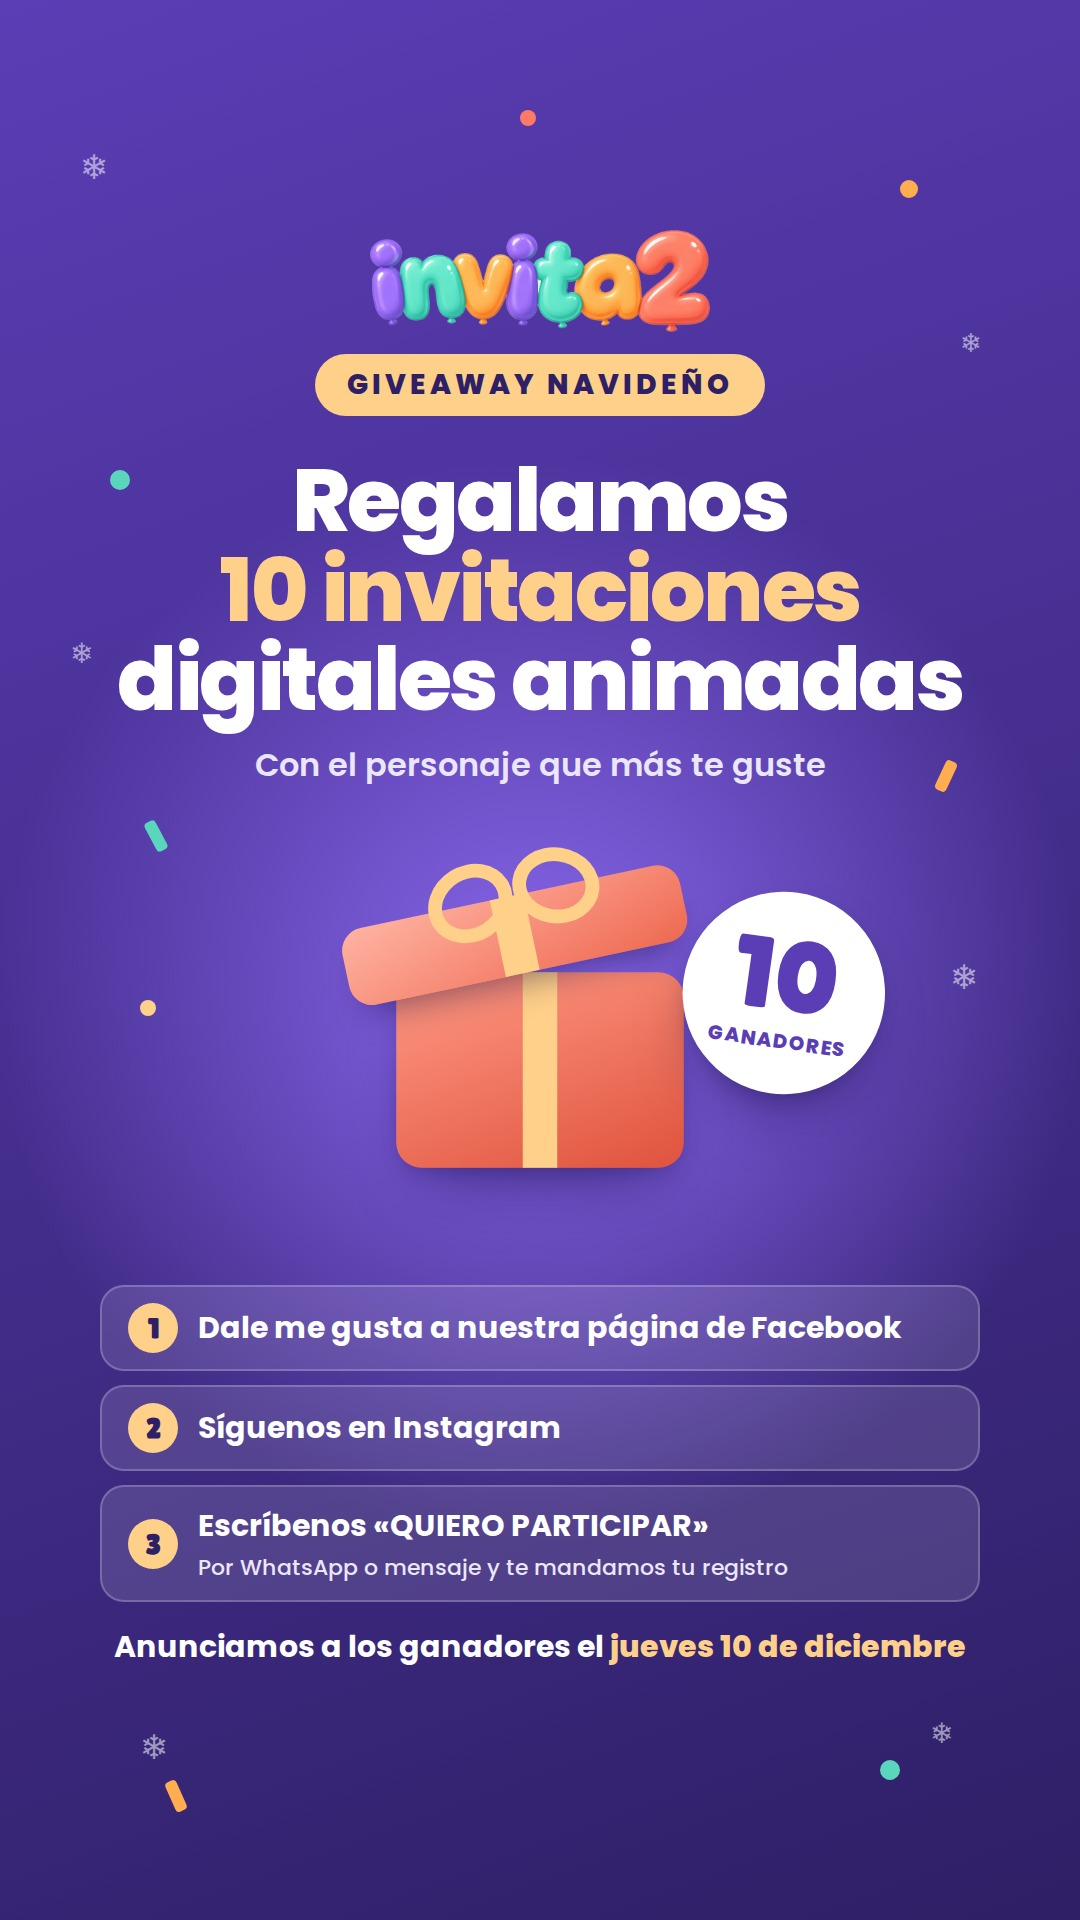
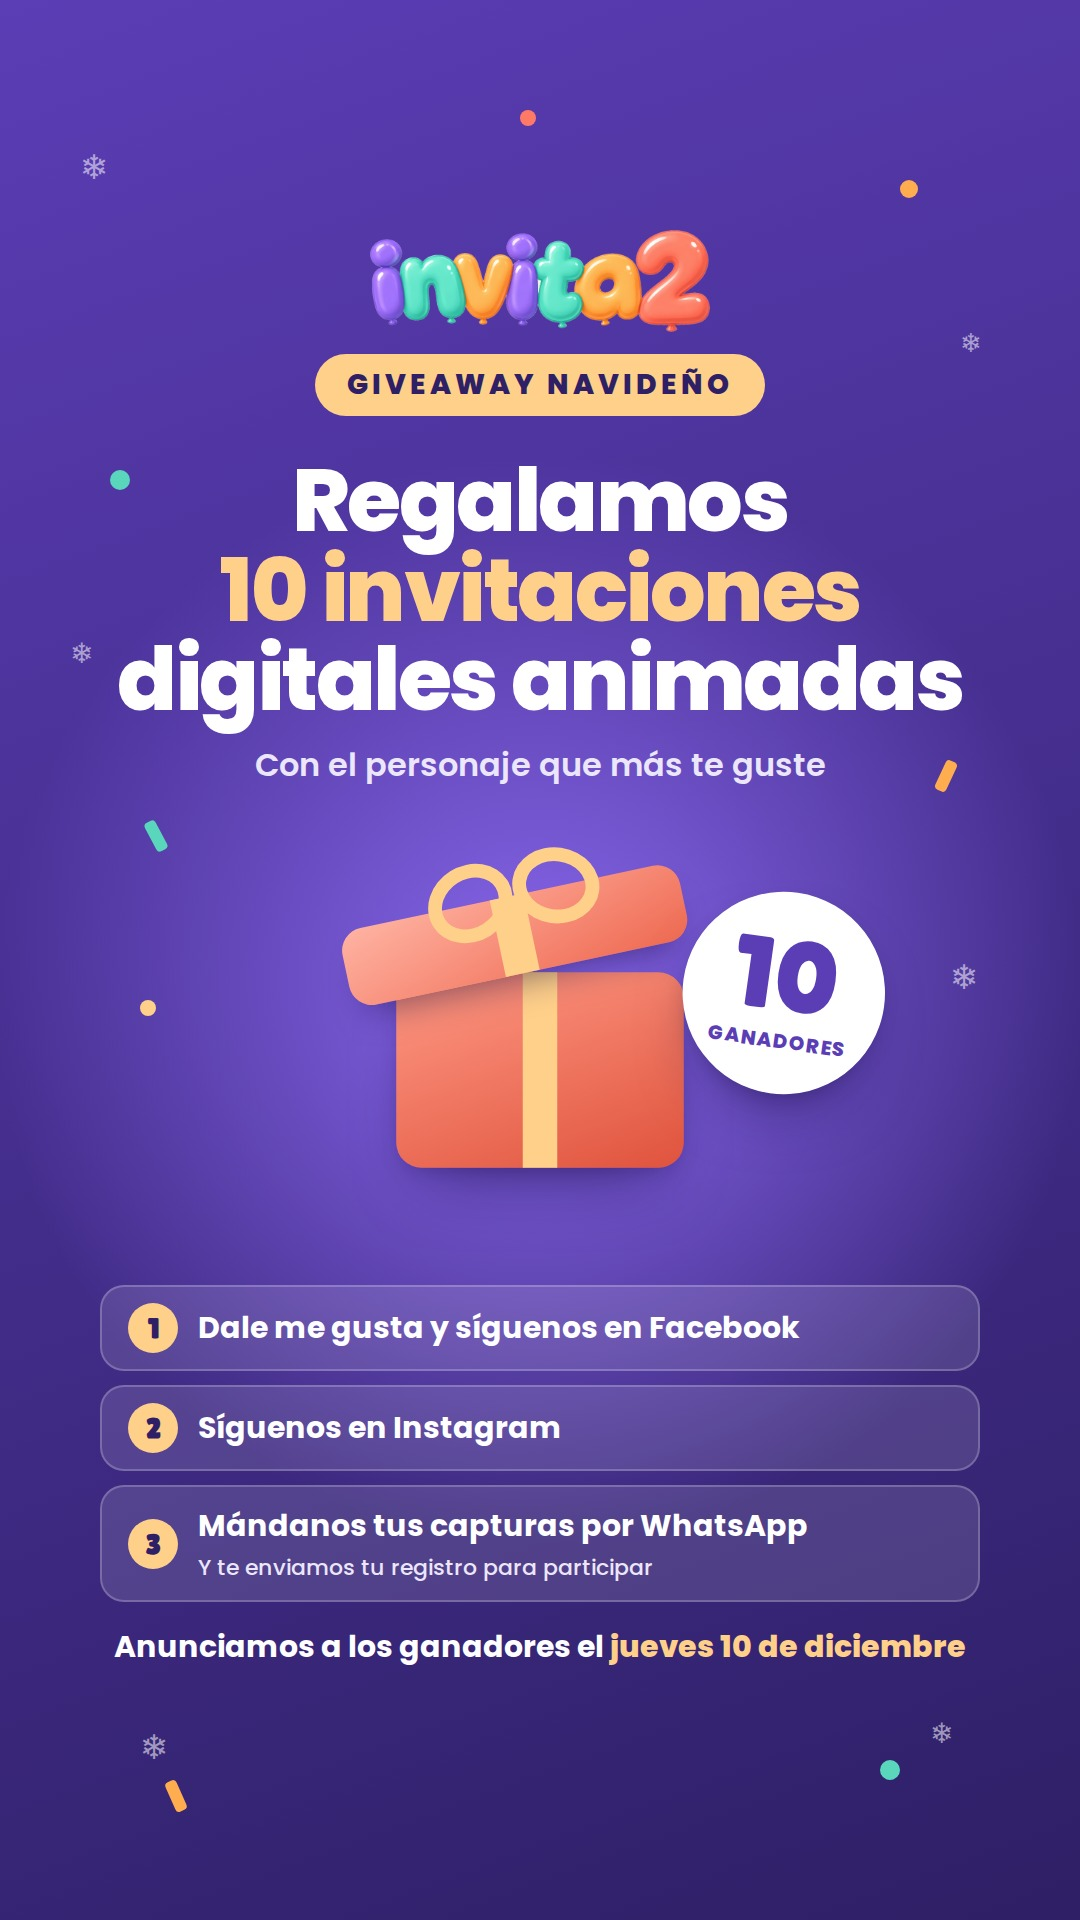
Giveaway: requisitos con capturas por WhatsApp
Los requisitos ahora son dar me gusta y seguir la página de Facebook, seguir
el Instagram y mandar las capturas por WhatsApp; con eso se les manda el
registro. Se actualizan las imágenes, el mensaje de WhatsApp y la lista de
requisitos del formulario.

Claude-Session: https://claude.ai/code/session_01LkzYQiHFfeBEkcAuxU96eY

Changed region(s): [[0.1833, 0.7812, 0.7639, 0.8438], [0.3972, 0.6875, 0.825, 0.7188]]

diff --git a/marketing/redes/giveaway-navidad.html b/marketing/redes/giveaway-navidad.html
@@ -40,7 +40,7 @@ h1 em{font-style:normal;color:var(--gold)}
   <span class="snow" style="left:80px;top:150px">❄</span>
   <span class="snow" style="left:960px;top:330px;font-size:26px">❄</span>
   <span class="snow" style="left:70px;top:640px;font-size:28px">❄</span>
-  <span class="snow" style="left:950px;top:880px">❄</span>
+  <span class="snow" style="left:960px;top:820px">❄</span>
   <span class="dot" style="left:150px;top:470px;width:20px;height:20px;background:var(--mint)"></span>
   <span class="dot" style="left:900px;top:180px;width:18px;height:18px;background:var(--orange)"></span>
   <span class="strip" style="left:190px;top:780px;background:var(--mint);transform:rotate(-28deg)"></span>
@@ -60,9 +60,9 @@ h1 em{font-style:normal;color:var(--gold)}
     </div>
 
     <div class="steps">
-      <div><i>1</i><span>Dale me gusta a nuestra página de Facebook</span></div>
+      <div><i>1</i><span>Dale me gusta y síguenos en Facebook</span></div>
       <div><i>2</i><span>Síguenos en Instagram</span></div>
-      <div><i>3</i><span>Escríbenos «QUIERO PARTICIPAR»<small>Por WhatsApp o mensaje y te mandamos tu registro</small></span></div>
+      <div><i>3</i><span>Mándanos tus capturas por WhatsApp<small>Y te enviamos tu registro para participar</small></span></div>
     </div>
     <p class="date">Anunciamos a los ganadores el <b>jueves 10 de diciembre</b></p>
   </div>

diff --git a/src/lib/giveaways.ts b/src/lib/giveaways.ts
@@ -25,18 +25,16 @@ export function announceLabel(date: string) {
 }
 
 /**
- * Respuesta por WhatsApp a quien pidió información o quiere participar.
- * {enlace}, {fecha} y {ganadores} se reemplazan al copiar.
+ * Respuesta por WhatsApp a quien ya mandó sus capturas (me gusta y sigue la
+ * página de Facebook, sigue el Instagram). {enlace}, {fecha} y {ganadores} se
+ * reemplazan al copiar.
  */
-export const DEFAULT_GIVEAWAY_MESSAGE = `¡Hola! 👋 Gracias por tu interés en nuestro giveaway 🎁
+export const DEFAULT_GIVEAWAY_MESSAGE = `¡Gracias por participar en nuestro giveaway! 🎁
 
-Estamos regalando {ganadores} invitaciones digitales animadas para tu fiesta. Para participar:
+Ya recibimos tus capturas ✅ Ahora solo falta tu registro con los datos de tu evento y el personaje que te gustaría:
+👉 {enlace}
 
-✅ Dale me gusta a nuestra página de Facebook
-✅ Síguenos en Instagram
-✅ Regístrate aquí: {enlace}
-
-Anunciamos a los ganadores {fecha} en nuestras redes y les escribimos por aquí. ¡Mucha suerte! 🍀`;
+Estamos regalando {ganadores} invitaciones digitales animadas y anunciamos a los ganadores {fecha} en nuestras redes. ¡Mucha suerte! 🍀`;
 
 export function giveawayMessage(template: string, link: string, announceOn: string, winners: number) {
   return (template || DEFAULT_GIVEAWAY_MESSAGE)

diff --git a/marketing/redes/giveaway-navidad-historia.html b/marketing/redes/giveaway-navidad-historia.html
@@ -65,9 +65,9 @@ h1 em{font-style:normal;color:var(--gold)}
     </div>
 
     <div class="steps">
-      <div><i>1</i><span>Dale me gusta a nuestra página de Facebook</span></div>
+      <div><i>1</i><span>Dale me gusta y síguenos en Facebook</span></div>
       <div><i>2</i><span>Síguenos en Instagram</span></div>
-      <div><i>3</i><span>Escríbenos «QUIERO PARTICIPAR»<small>Por WhatsApp o mensaje y te mandamos tu registro</small></span></div>
+      <div><i>3</i><span>Mándanos tus capturas por WhatsApp<small>Y te enviamos tu registro para participar</small></span></div>
     </div>
     <p class="date">Anunciamos a los ganadores el <b>jueves 10 de diciembre</b></p>
   </div>

diff --git a/src/app/sorteo/GiveawayForm.tsx b/src/app/sorteo/GiveawayForm.tsx
@@ -146,8 +146,9 @@ export function GiveawayForm({ token, themes, announce }: { token: string; theme
 
       <Section title="Requisitos">
         <ul className={styles.requirements}>
-          <li>Dale me gusta a nuestra página de Facebook</li>
+          <li>Dale me gusta y síguenos en Facebook</li>
           <li>Síguenos en Instagram</li>
+          <li>Mándanos tus capturas por WhatsApp</li>
         </ul>
         <label className={styles.check}>
           <input type="checkbox" checked={form.accepted} onChange={(e) => set("accepted", e.target.checked)} required />
